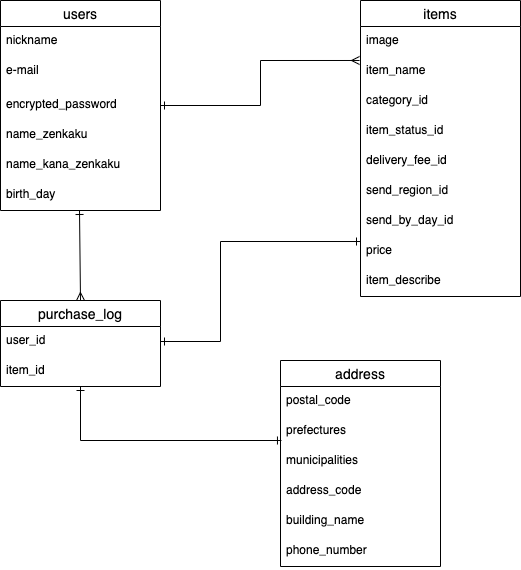
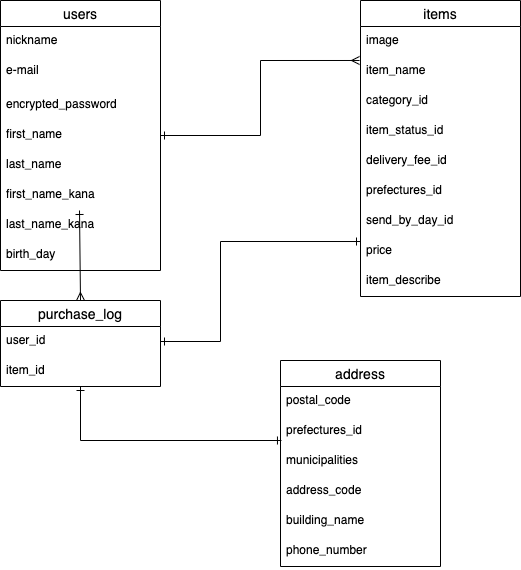
データベース設計　修正2

diff --git a/README.md b/README.md
@@ -5,13 +5,15 @@
 | nickname              | string | null: false               |
 | email                 | string | null: false, unique: true |
 | encrypted_password    | string | null: false               |
-| name_zenkaku          | string | null: false               |
-| name_kana_zenkaku     | string | null: false               |
+| first_name            | string | null: false               |
+| last_name             | string | null: false               |
+| first_name_kana       | string | null: false               |
+| last_name_kana        | string | null: false               |
 | birth_day             | date   | null: false               |
 
 ### Association
 - has_many :items
-- has_many :purchase_log
+- has_many :purchase_logs
 
 ## items
 
@@ -22,7 +24,7 @@
 | category_id     | integer    | null: false                    |
 | item_status_id  | integer    | null: false                    |
 | delivery_fee_id | integer    | null: false                    |
-| send_region_id  | integer    | null: false                    |
+| prefectures_id  | integer    | null: false                    |
 | send_by_day_id  | integer    | null: false                    |
 | price           | integer    | null: false                    |
 | user            | references | null: false, foreign_key: true |
@@ -45,14 +47,15 @@
 
 ## address
 
-| Column         | Type    | Options     |
-|----------------|---------|-------------|
-| postal_code    | integer | null: false |
-| prefectures    | string  | null: false |
-| municipality   | string  | null: false |
-| address_code   | integer | null: false |
-| building_name  | string  |             |
-| phone_number   | integer | null: false |
+| Column         | Type       | Options                        |
+|----------------|------------|--------------------------------|
+| postal_code    | integer    | null: false                    |
+| prefectures_id | integer    | null: false                    |
+| municipality   | string     | null: false                    |
+| address_code   | string     | null: false                    |
+| building_name  | string     |                                |
+| phone_number   | integer    | null: false                    |
+| purchase_log   | references | null: false, foreign_key: true |
 
 ### Association
 - belongs_to :purchase_log
